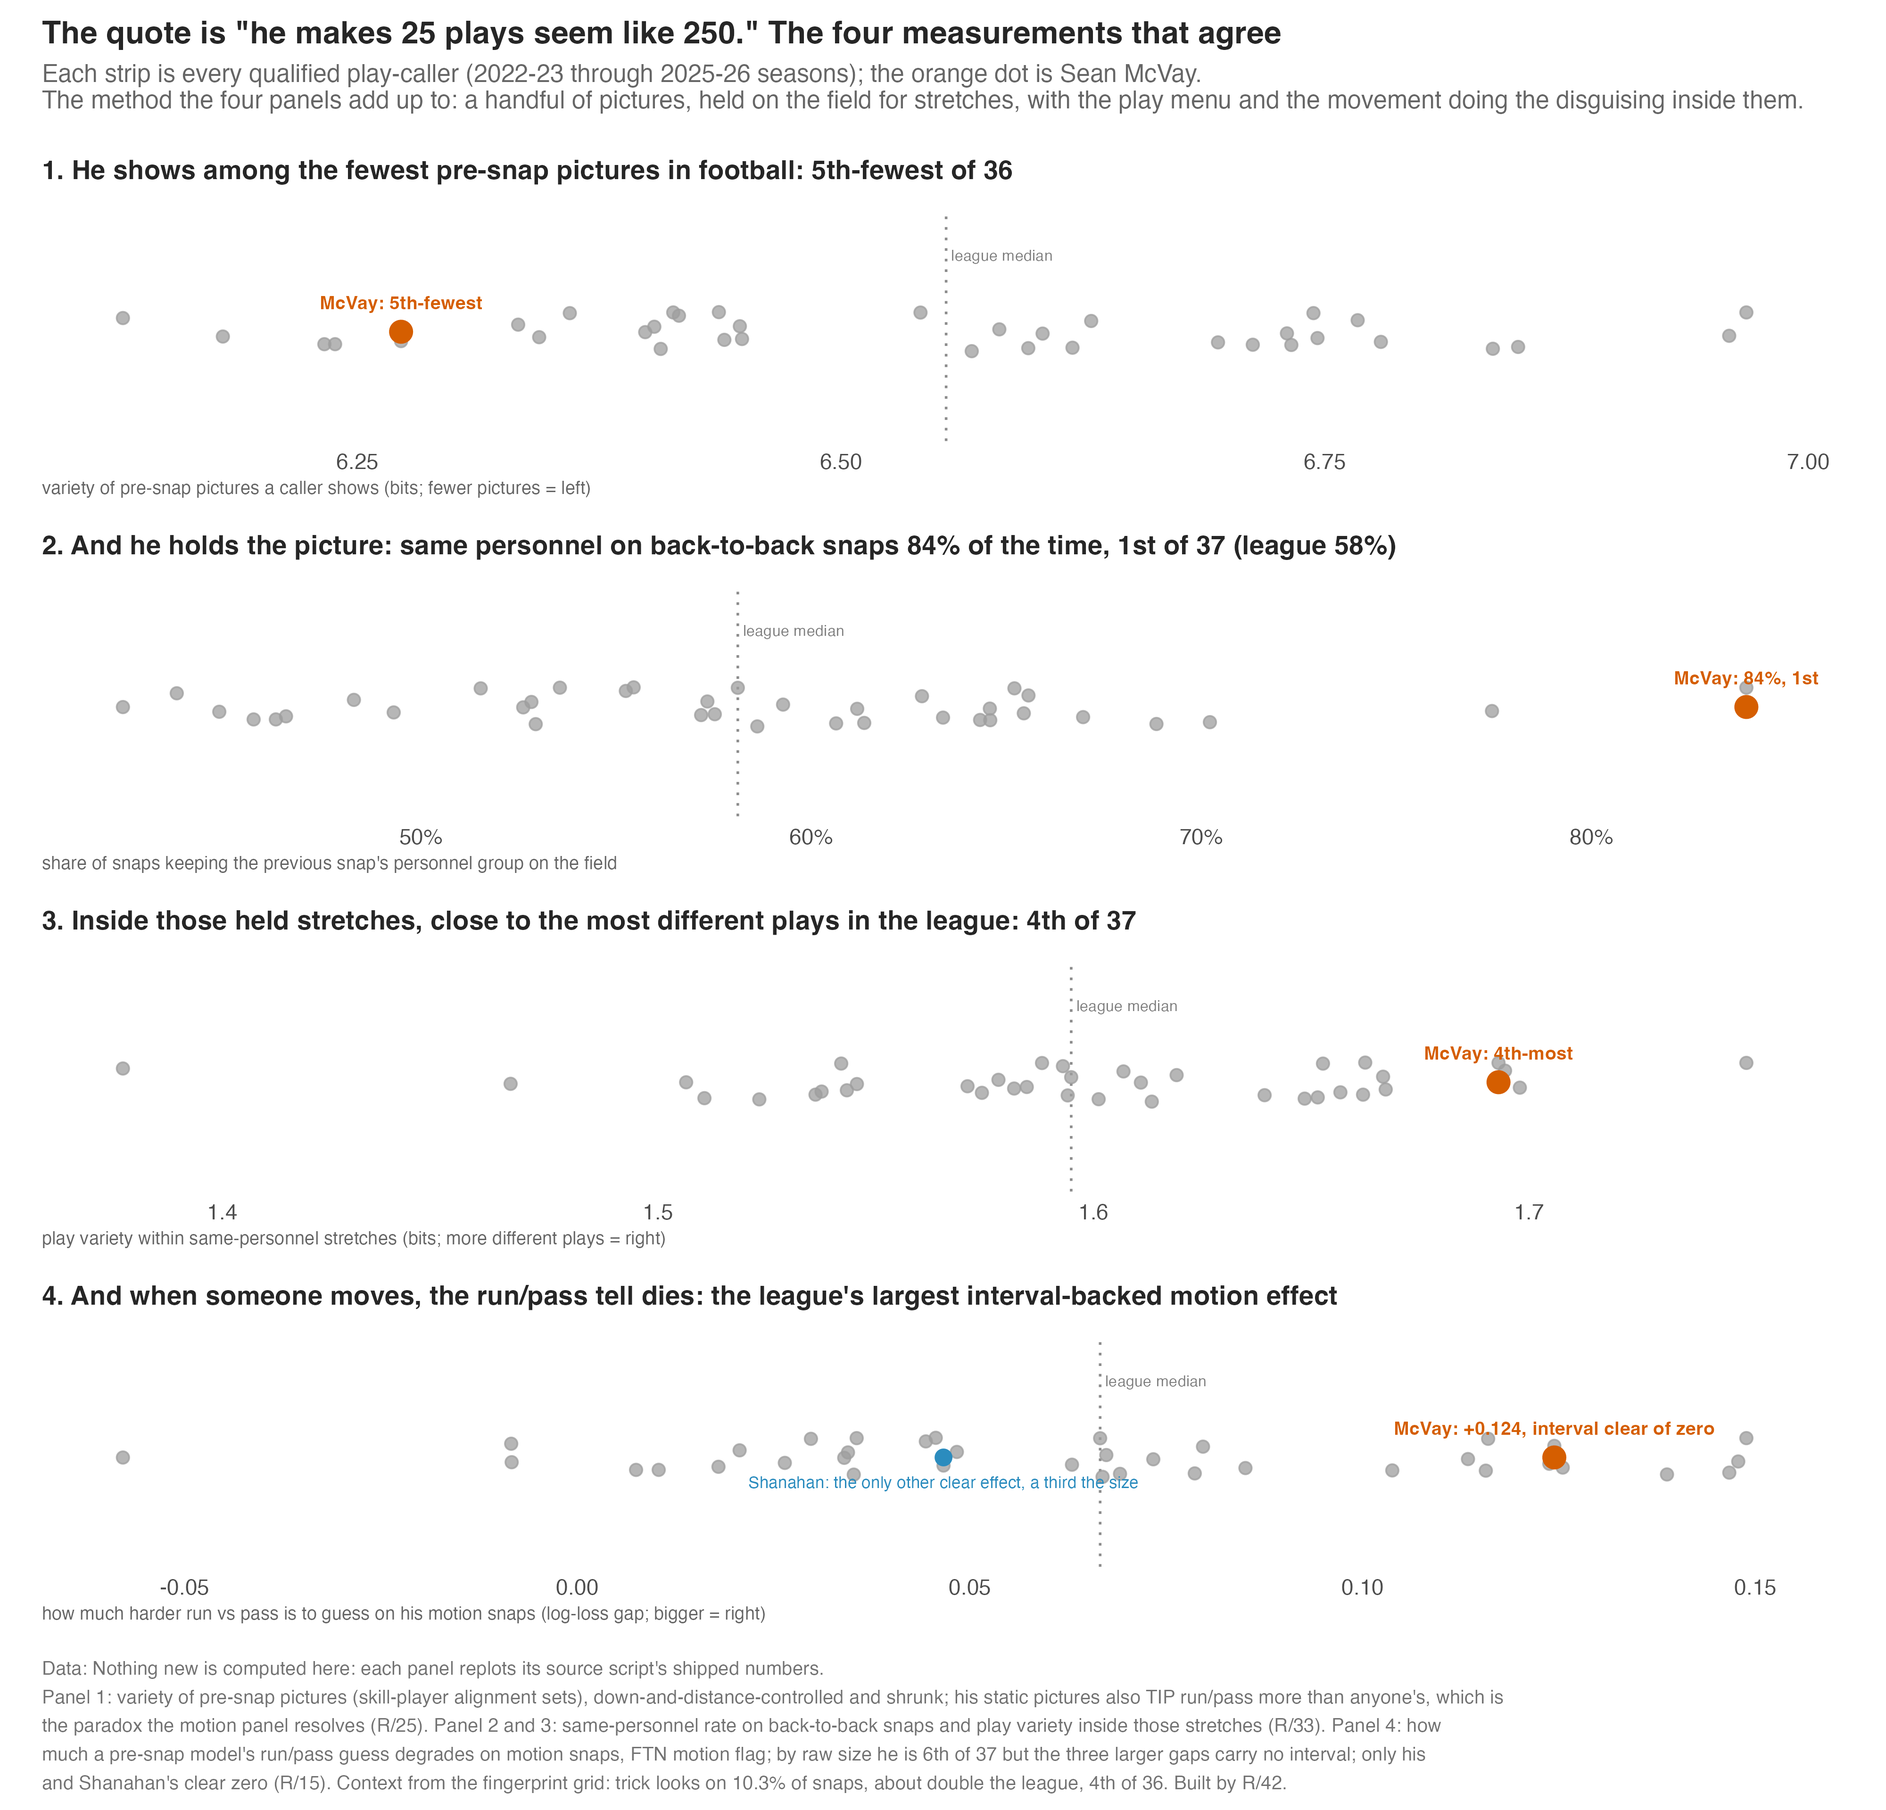
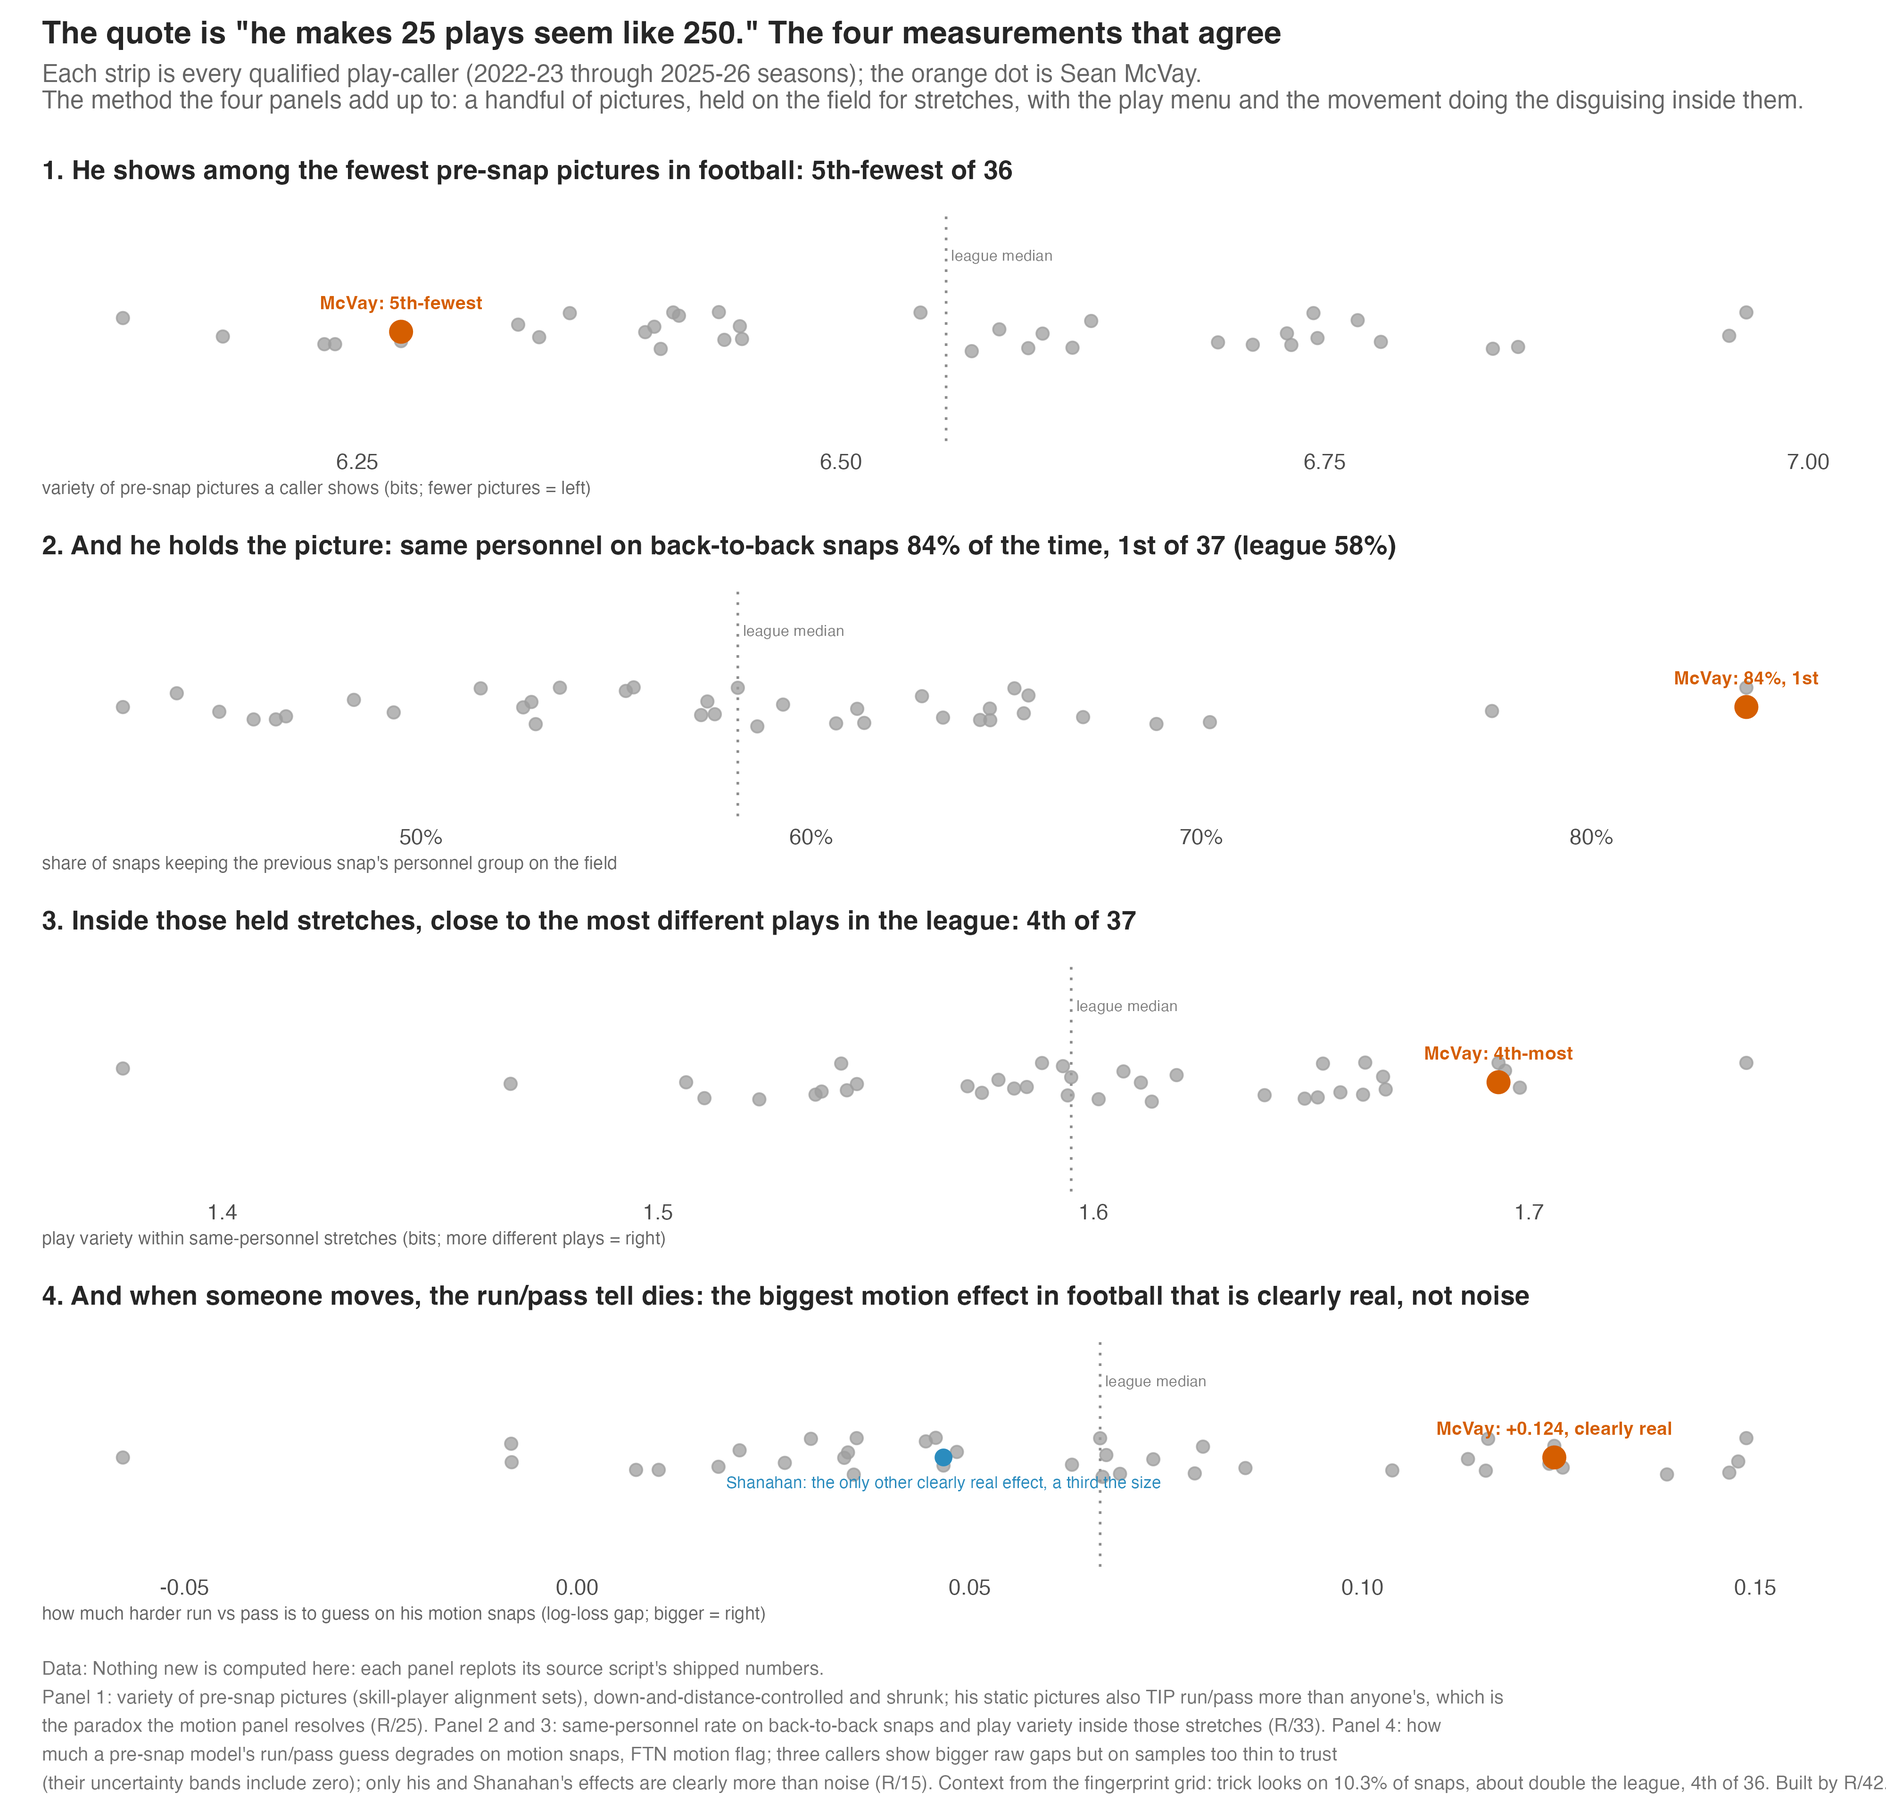
Tip explainer on McVay's own looks (R/43), menu-vs-wardrobe direct test (R/41), plain-language fix on the composite

diff --git a/docs/index.html b/docs/index.html
@@ -109,7 +109,7 @@
 
   <div class="prose">
     <p style="font-size:14.5px;color:var(--ink-3);border:1px solid var(--line);border-radius:10px;padding:12px 16px;background:var(--card)"><strong style="color:var(--ink)">Finding the new stuff.</strong> The board grows downward by date, newest at the top. Jump to a day:
-    <a href="#afternoon-19">Aug 19 afternoon texts</a> (the 25-plays-like-250 composite, the pistol memory) ·
+    <a href="#afternoon-19">Aug 19 afternoon texts</a> (the 25-plays-like-250 composite, the tip explained on his own looks, menu vs wardrobe, the pistol memory) ·
     <a href="#dig-19">Aug 19 evening dig</a> (bootleg folklore, the penalty ledger, what the YAC edge is made of) ·
     <a href="#morning-19">Aug 19 morning thread</a> (sequencing rumor, Seattle defense battery, rotation hunt) ·
     <a href="#kyle-file">Aug 19 Kyle file</a> (YAC factory, mismatch machine, article check) ·
@@ -138,12 +138,34 @@
     <div class="card">
       <div class="card-head"><span class="t">"He makes 25 plays seem like 250," in one graphic</span><span class="pill ship">Four measurements agree</span></div>
       <p class="row"><span class="lab">Michael:</span> "I found some quotes of players and DCs saying that McVay makes 25 plays seem like 250. Is there anything we have to show for that? Haha"</p>
-      <p class="row found"><span class="lab">Four findings already on the board line up behind the quote, so they now live in one chart.</span> He shows the 5th-fewest pre-snap pictures in football; he keeps the same personnel on back-to-back snaps 84% of the time, first by a mile over a 58% league; inside those held stretches he runs the 4th-most play variety in the league (the quote, almost verbatim: same picture, different plays); and when someone moves, run-vs-pass becomes measurably harder to guess, the largest interval-backed motion effect in the league (Shanahan owns the only other one, a third the size). The twist worth saying on camera: the raw picture hides nothing. His static looks tip run/pass more than anyone's. The "seems like 250" happens through what moves inside the picture, not through picture count. He is not hiding the play; he is making the tell expire late.</p>
+      <p class="row found"><span class="lab">Four findings already on the board line up behind the quote, so they now live in one chart.</span> He shows the 5th-fewest pre-snap pictures in football; he keeps the same personnel on back-to-back snaps 84% of the time, first by a mile over a 58% league; inside those held stretches he runs the 4th-most play variety in the league (the quote, almost verbatim: same picture, different plays); and when someone moves, run-vs-pass becomes measurably harder to guess, the biggest motion effect in football that is clearly real rather than noise (Shanahan owns the only other one, a third the size). The twist worth saying on camera: the raw picture hides nothing. His static looks tip run/pass more than anyone's. The "seems like 250" happens through what moves inside the picture, not through picture count. He is not hiding the play; he is making the tell expire late.</p>
       <figure>
         <img src="figures/mcvay_formula.png" alt="Four stacked strip charts: picture variety with McVay 5th-fewest, same-personnel rate with McVay first at 84 percent, play variety within held stretches with McVay 4th, and motion effect on run-pass guessability with McVay the largest interval-backed effect.">
         <figcaption>The composite: every panel replots its source script's shipped numbers (R/25, R/33, R/15). Built by R/42.</figcaption>
       </figure>
-      <p class="row"><span class="lab">The catch:</span> panel 1 is 5th-fewest, not 1st-fewest, and panel 4's raw rank is 6th (the three larger raw gaps carry no interval, so "largest interval-backed" is the defensible phrasing); the direct menu-versus-wardrobe test of the quote itself, counting his actual play menu and the dressings each play wears, is building now as R/41.</p>
+      <p class="row"><span class="lab">The catch:</span> panel 1 is 5th-fewest, not 1st-fewest, and panel 4's raw rank is 6th: three callers show bigger raw motion gaps, but on samples too thin for the data to stand behind, so "biggest clearly-real effect" is the defensible phrasing.</p>
+    </div>
+
+    <div class="card">
+      <div class="card-head"><span class="t">"How does their formation tip run/pass?" Shown on his own looks</span><span class="pill ship">The tell is the QB's feet</span></div>
+      <p class="row"><span class="lab">Michael:</span> "Can you try to explain that further? Because that point is helpful for what is happening here… Is it 'in 13 personnel they run it 75% of the time when two tight ends are on the right' or what? Need depth there if you can"</p>
+      <p class="row found"><span class="lab">It is exactly that sentence, so here it is computed on McVay's ten most-used looks.</span> For each look, two dots: what the down-and-distance mix on those snaps says the pass rate should be, and what he actually calls. No model anywhere, just counting twice. The biggest tell: out of 11 personnel, 3x2, shotgun, he throws it 96% of the time when the situation alone said 67%. And the pattern that jumps out of the ten rows: every shotgun look throws more than expected (+6 to +29 points), every under-center look runs more (&minus;4 to &minus;19). Most of his run/pass tell is the quarterback's own feet, not the receivers' arrangement. Which restates the paradox cleanly: the picture announces run or pass, and he wins anyway, because knowing which half of the playbook is coming is not the same as knowing the play.</p>
+      <figure>
+        <img src="figures/tip_explainer.png" alt="Dumbbell chart of ten McVay pre-snap looks comparing situation-expected pass rate to actual pass rate, shotgun looks all passing more than expected and under-center looks all running more.">
+        <figcaption>The tip, made concrete: expected against actual, look by look. Built by R/43.</figcaption>
+      </figure>
+      <p class="row"><span class="lab">The catch:</span> this explainer uses the readable look (personnel, receiver split, QB alignment) so each row can be said out loud; the board's leak ranking (R/25) runs the same exercise on the finer picture of every skill player's alignment with rare-look shrinkage, which is why its scale is in bits rather than percentage points.</p>
+    </div>
+
+    <div class="card">
+      <div class="card-head"><span class="t">The quote's direct test: menu against wardrobe</span><span class="pill work">Half confirmed, and the miss is the insight</span></div>
+      <p class="row"><span class="lab">The test:</span> if "25 plays seem like 250" is literally true, McVay should have a small play menu and dress each play many ways. Count both: how many distinct plays cover 80% of a caller's snaps (runs by concept and side, passes by the three deepest routes), and how many different pre-snap dressings the average core play wears, with every caller cut to the same 1,200-play sample so busy callers do not look artificially rich.</p>
+      <p class="row found"><span class="lab">The menu half is real; the wardrobe half belongs to Ben Johnson.</span> McVay runs the 3rd-smallest play menu of 36 callers, 47 plays to cover 80% of his snaps against a league median of 56. But he does NOT dress them up more than everyone else: 27th of 36 in dressings per play. He sits in the "few plays, worn the same way every time" corner, which is not a contradiction of the quote; it is the mechanism the composite chart already found. His disguise is not a static wardrobe, it is the motion inside the look and the play variety inside held personnel. The caller who actually fits the full folklore profile is Ben Johnson: 5th-smallest menu AND 6th-biggest wardrobe. Both measures are strongly stable traits (menu r = +0.81, wardrobe r = +0.72 across season splits), so this is identity, not one stretch of tape.</p>
+      <figure>
+        <img src="figures/menu_wardrobe.png" alt="Scatter of 36 callers by play-menu size against dressings per core play, McVay in the few-plays-same-dressing corner, Ben Johnson in the few-plays-many-disguises corner, Shanahan near league median on both.">
+        <figcaption>Menu size against wardrobe size, everyone cut to the same sample. The folklore corner belongs to Johnson. Built by R/41.</figcaption>
+      </figure>
+      <p class="row"><span class="lab">The catch:</span> Sumer has no play-level pass concept, so a pass "play" here is the three deepest charted routes (87% of dropbacks have three or more charted; the rest fall back to coarser labels), and a "dressing" cannot include motion because no source in this repo tags motion type; if his 250 lives specifically in motion variations, this test could not see it, which is consistent with where the other charts say his disguise lives.</p>
     </div>
 
     <div class="card">

diff --git a/docs/outline.html b/docs/outline.html
@@ -42,6 +42,10 @@ footer{border-top:1px solid var(--line);margin-top:60px;padding-top:18px;font-si
 <figure><img src="figures/hold_personnel.png" alt="Personnel-holding measured three ways with McVay first in football on all three and Shanahan below the league line"><figcaption>Holding personnel, three ways. Built by R/33.</figcaption></figure>
 <p class="note">Players and coordinators are quoted saying he "makes 25 plays seem like 250." The four measurements above now live in one composite for the camera: 5th-fewest pictures, personnel held 84% (1st), 4th-most play variety inside the held stretches, and the league&rsquo;s largest interval-backed motion effect on run/pass guessability. The twist to say out loud: his static pictures tip the play MORE than anyone&rsquo;s; the disguise is what moves inside them, not the picture count.</p>
 <figure><img src="figures/mcvay_formula.png" alt="Four stacked strips: picture variety, personnel holding, play variety inside stretches, and motion effect, with McVay highlighted on each"><figcaption>The 25-plays-like-250 composite. Each panel replots its source script&rsquo;s shipped numbers. Built by R/42.</figcaption></figure>
+<p class="note">The "tips run vs pass" axis, explained on his own looks (the asked-for depth): out of 11 personnel, 3x2, shotgun he throws it <b>96%</b> when the situation said 67%; every shotgun look throws more than expected (+6 to +29 points), every under-center look runs more (-4 to -19). <b>Most of the tell is the quarterback&rsquo;s feet.</b> No model: league pass rate per down-and-distance bucket against his own calls.</p>
+<figure><img src="figures/tip_explainer.png" alt="Ten McVay looks, expected pass rate against actual, shotgun looks all passing more and under-center looks all running more"><figcaption>The tip, made concrete. Built by R/43.</figcaption></figure>
+<p class="note">And the quote&rsquo;s direct test, menu against wardrobe: McVay has the <b>3rd-smallest play menu</b> of 36 (47 plays cover 80% of snaps, league 56) but ranks <b>27th in dressings per play</b>: few plays, worn the same way. The static-wardrobe half of the folklore actually belongs to <b>Ben Johnson</b> (5th-smallest menu, 6th-biggest wardrobe). McVay&rsquo;s 250 lives in the motion and the within-look play menu, not the outfit rack. Both axes are stable traits (r = +0.81 / +0.72).</p>
+<figure><img src="figures/menu_wardrobe.png" alt="Scatter of play-menu size against dressings per play with McVay few-plays-same-dressing and Johnson in the folklore corner"><figcaption>Menu against wardrobe, all callers cut to the same sample. Built by R/41.</figcaption></figure>
 <p class="note">His pistol experiment, from the alignment charting: none charted in 2022-23, then 7.7% of snaps in 2023-24 (league 4.3%) and 10.6% in 2024-25 (league 5.8%), roughly double the league both years, then abandoned this past season (0.7%) in the same offseason as the 13-personnel pivot. Against Seattle specifically it barely appeared (0/4/2/0 snaps across the four meetings).</p></section>
 <section><h3>MacDonald (defense)</h3><figure><img src="figures/factory/macdonald_clock.png" alt="Macdonald defensive EPA allowed year one vs year two at Baltimore and Seattle"><figcaption>Ordinary in year one, second in the league in year two. Twice.</figcaption></figure>
 <figure><img src="figures/factory/defense_leaders.png" alt="Career EPA per play allowed by defensive play-caller"><figcaption>Career EPA per play allowed, minimum 1,500 charted plays.</figcaption></figure>

diff --git a/README.md b/README.md
@@ -103,6 +103,8 @@ the new work.
 | The scheme-space crown is Johnson's | 1st of 37 before contact, 50/50 split, spread across 19 players; channels correlate only r = 0.60 |
 | "25 plays seem like 250," composited | 5th-fewest pictures + personnel held 84% (1st) + 4th-most play variety inside stretches + largest interval-backed motion effect |
 | McVay's pistol experiment | 0% -> 7.7% (2023-24) -> 10.6% (2024-25), ~2x league both years, killed to 0.7% in 2025-26 |
+| The tip, made concrete | 11 pers/3x2/shotgun: 96% pass vs 67% expected; every shotgun look +6..+29, every under-center look -4..-19: the tell is the QB's feet |
+| Menu vs wardrobe: quote half-true | McVay menu 3rd-smallest of 36 but wardrobe 27th; Ben Johnson owns the folklore corner (5th + 6th); both traits stable (r=.81/.72) |
 
 ## Scripts
 
@@ -146,7 +148,9 @@ figures and derived CSVs.
 | `R/38_qb_movement.R` | qb_movement.png |
 | `R/39_discipline.R` | discipline.png |
 | `R/40_yac_mechanism.R` | yac_mechanism.png |
+| `R/41_menu_wardrobe.R` | menu_wardrobe.png |
 | `R/42_mcvay_formula.R` | mcvay_formula.png |
+| `R/43_tip_explainer.R` | tip_explainer.png |
 
 ```sh
 for f in R/0*.R; do Rscript "$f"; done
